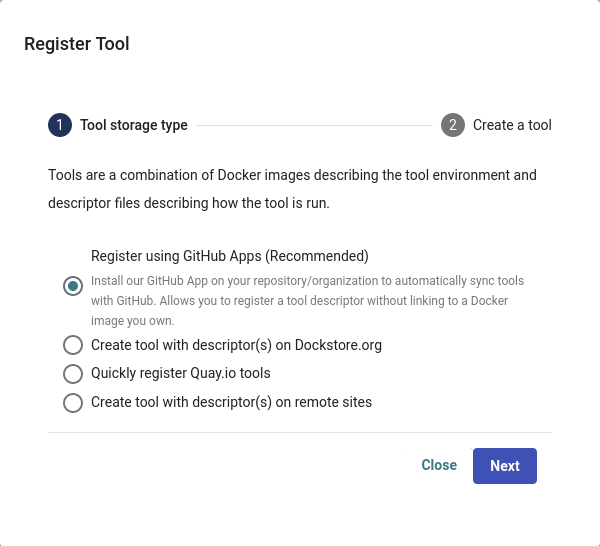
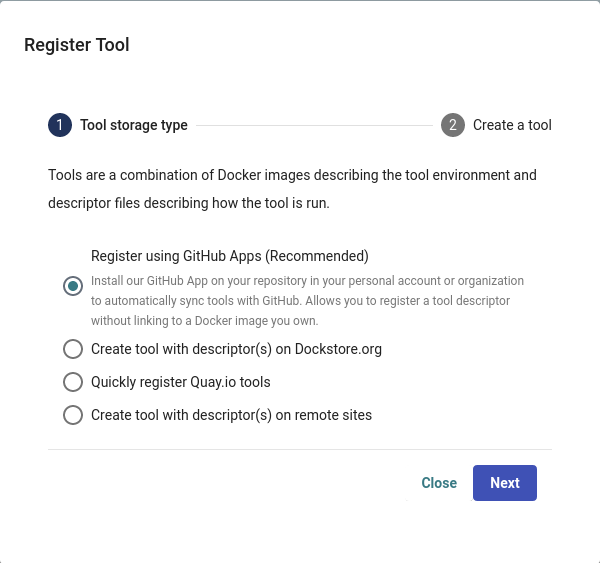
Clarify personal account vs organization

diff --git a/docs/getting-started/github-apps/github-apps-troubleshooting-tips.rst b/docs/getting-started/github-apps/github-apps-troubleshooting-tips.rst
@@ -13,7 +13,7 @@ GitHub App Troubleshooting & FAQs
 
 Why should I migrate my existing workflows to use GitHub Apps and a .dockstore.yml?
 ----------------------------------------------------------------------------------------
-Installing our Dockstore GitHub App onto your GitHub repository or organization will automatically sync your workflow/tool on Dockstore whenever code is pushed to GitHub.
+Installing our Dockstore GitHub App onto repositories in your GitHub personal account or organization will automatically sync your workflow/tool on Dockstore whenever code is pushed to GitHub.
 This means less manual work for workflow developers, and less waiting for content to update.
 
 This requires the addition of a .dockstore.yml file to your repository on GitHub.
@@ -37,15 +37,15 @@ You can use filters in a .dockstore.yml to avoid generating a corresponding work
 
 How do I check if the Dockstore GitHub App was installed on an individual repository?
 --------------------------------------------------------------------------------------
-Go to your repo on GitHub, click the Settings tab, click Integrations on the left and verify our app is installed and configured correctly
+Go to your repo on GitHub and click the Settings tab. On the left hand side under the Integrations section, click on GitHub Apps and verify our app is installed and configured correctly.
 
 .. image:: /assets/images/docs/github-repo-settings.png
 
-You may not have access to this page if you are not an administrator of your GitHub organization, :ref:`but you may still be able to see if it installed. <view github app permissions hack>` :ref:`(back to top) <topGHAFAQ>`
+If you're checking if the GitHub App was installed on a repository of an organization, you may not have access to this page if you are not an administrator of your GitHub organization, :ref:`but you may still be able to see if it installed. <view github app permissions hack>` :ref:`(back to top) <topGHAFAQ>`
 
 How do I configure the GitHub App across multiple repositories?
 ------------------------------------------------------------------
-GitHub Apps can be installed on either an a user level, or an organizational level. If you installed the app for your own repos that are not in an organization, you will be able to verify the Dockstore GitHub App is installed by clicking "Applications" in the left menu in your GitHub settings. Our app, along with any others you may have installed, will be there. Clicking the "configure" button will allow you to adjust which repos the app has access to. :ref:`(back to top) <topGHAFAQ>`
+GitHub Apps can be installed on either an a user level, or an organizational level. If you installed the app for your own repositories that are not in an organization, you will be able to verify the Dockstore GitHub App is installed by clicking "Applications" in the left menu in your GitHub settings. Our app, along with any others you may have installed, will be there. Clicking the "configure" button will allow you to adjust which repos the app has access to. :ref:`(back to top) <topGHAFAQ>`
 
 .. _view github app permissions hack:
 
@@ -91,8 +91,8 @@ The changes made to my GitHub repo aren't appearing on Dockstore, but I've alrea
 The general troubleshooting flow we recommend is the following:
 
 - Try waiting a couple of minutes and refreshing the browser on the My Workflows/My Tools page again. Sometimes, GitHub takes a few minutes to send Dockstore the changes made to a repository.
-- Verify that the GitHub app was given access to the right repository or organization. 
-- If access was given to the wrong organization or repository, or this is your first time installing the app, you'll need to push another commit after adding the correct repository to activate the sync to Dockstore.
+- Verify that the GitHub app was given access to the right repository in your personal account or organization. 
+- If access was given to the wrong repository or personal account/organization, or this is your first time installing the app, you'll may need to push another commit after adding the correct repository to activate the sync to Dockstore.
 - Double check the .dockstore.yml file.
 
     - Is it in the root directory?
@@ -113,10 +113,10 @@ Navigate to the ``/my-workflows`` (or ``/my-tools``) page.
 
 .. note:: If you're trying to view the GitHub App logs for a notebook, which doesn't have its own ``/my-notebooks`` page yet, navigate to ``/my-workflows`` then continue following the steps.
 
-Expand the GitHub Organization that the repository belongs to on the left hand side. Then click on the bottom where it says ``See GitHub App Logs``.
+Expand the GitHub account that the repository belongs to on the left hand side. Then click on the bottom where it says ``Apps Logs``.
 
 .. image:: /assets/images/docs/github-app-logs-button.png
-   :width: 40 %
+   :width: 30 %
 
 Once loaded, the following window will be displayed.
 

diff --git a/docs/getting-started/github-apps/snippet--installation.rst b/docs/getting-started/github-apps/snippet--installation.rst
@@ -2,35 +2,39 @@ Installing the GitHub App is simple. Navigate to ``/my-tools``, ``/my-workflows`
 
 .. note:: Since Dockstore Notebooks is still in preview mode, it does not have a dedicated ``/my-notebooks`` page yet. To register a notebook, navigate to ``/my-workflows`` in the step above. 
 
-.. image:: /assets/images/docs/my-dashboard-sidebar.png
+.. image:: /assets/images/docs/my-dashboard-sidebar.png  
+
+|
 
 Click the ``Register a Tool`` button on the left hand sidebar.
 
 .. image:: /assets/images/docs/add-tool-button.png
    :width: 30 %
 
+|
+
 A window will appear asking how you would like to register your tool, workflow, or service. Select ``Register using GitHub Apps``.
 
 .. image:: /assets/images/docs/register-tool-github-apps.png
    :width: 50 %
 
-Click ``+ Manage Dockstore Installations on GitHub``. You'll then be redirected to GitHub where you can select which repositories can be accessed by the GitHub app.
+Click ``+ Manage Dockstore Installations on GitHub``.
 
 .. image:: /assets/images/docs/manage-gh-app-installation.png
    :width: 50 %
 
-You'll then be redirected to GitHub where you can grant the app access to specific repositories within whatever organization you are installing into. Note that GitHub treats your username as its own "organization." For instance, my GitHub username is aofarrel. If I want to install the GitHub App so it could access aofarrel/mycoolrepo, I would choose the first option here.
+You'll then be redirected to GitHub where you can grant the app access to repositories within your personal account or organizations that you belong to. For example, the username for my personal GitHub account is aofarrel. If I want to install the GitHub App so it could access aofarrel/mycoolrepo, I would choose the first option here.
 
 .. figure:: /assets/images/docs/gh-app-install-where.png
    :width: 65 %
 
-   Install our GitHub App on either all current and future repositories in an organization or on specific repositories
+   Install our GitHub App on repositories in your personal account or organizations that you belong to
 
-After selection of an organization, you can select whether to give access to all current and future repositories or only select ones. If the organization you choose is intended to be just for Dockstore tools/workflows/services/notebooks, you may want to allow access to all repositories. Otherwise, it is may be more intuitive to select only certain repositories. Click save and you will be taken back to the page you started on in Dockstore -- either  ``/my-tools``, ``/my-workflows``, or ``/my-services``, depending where you started.
+After selection of a personal account or an organization, you can select whether to give access to all current and future repositories or only select ones. If the personal account or organization you choose is intended to be just for Dockstore tools/workflows/services/notebooks, you may want to allow access to all repositories. Otherwise, it is may be more intuitive to select only certain repositories. Click save and you will be taken back to the page you started on in Dockstore -- either  ``/my-tools``, ``/my-workflows``, or ``/my-services``, depending on where you started.
 
 .. important:: The GitHub user who first adds a workflow onto Dockstore must correspond to a user on Dockstore.
 
-You should now see the organization and the repositories you chose to keep track of in the "unpublished" tab. Here's an example involving ``/my-services``:
+On Dockstore, under the GITHUB section, you should see the names of GitHub accounts that you have access to, such as your personal account and organizations that you belong to. If your repositories that you chose to keep track of contained a .dockstore.yml at the time of installing the GitHub App, then you will see the repositories under the GitHub personal/organization account name that it belongs to. Here's an example involving ``/my-services``:
 
 .. figure:: /assets/images/docs/my-services-filled.png
 

diff --git a/docs/getting-started/github-apps/migrating-workflows-to-github-apps.rst b/docs/getting-started/github-apps/migrating-workflows-to-github-apps.rst
@@ -6,7 +6,7 @@ Dockstore 1.9.0 provides users with a way to keep their workflows automatically 
 GitHub App Installation
 -----------------------
 
-The first step to migrating a workflow is the same as adding a new workflow via GitHub Apps: install our Dockstore GitHub App onto your repository or
+The first step to migrating a workflow is the same as adding a new workflow via GitHub Apps: install our Dockstore GitHub App onto repositories in your personal account or
 organization, if you have not already done so.
 
 .. include:: /getting-started/github-apps/snippet--installation.rst
@@ -16,7 +16,7 @@ organization, if you have not already done so.
 Creating a .dockstore.yml File
 -------------------------------
 
-Once the GitHub app is installed on the correct repo, the next step is to create a .dockstore.yml file. We'll cover a very straightforward example
+Once the GitHub app is installed on the correct repository, the next step is to create a .dockstore.yml file. We'll cover a very straightforward example
 first, but depending on how you configured the workflow during registration and whether your GitHub repository houses multiple workflows published on Dockstore,
 there will be additional steps to writing your .dockstore.yml file.
 

diff --git a/docs/getting-started/github-apps/github-apps-landing-page.rst b/docs/getting-started/github-apps/github-apps-landing-page.rst
@@ -3,7 +3,7 @@ Dockstore GitHub App
 ======================================================
 
 GitHub apps are a GitHub feature used to improve the interaction between external applications and GitHub.
-Users can grant a GitHub app specific permissions on the repos and/or organizations of their choosing.
+Users can grant a GitHub app specific permissions on the repositories of personal and/or organization accounts of their choosing.
 
 The Dockstore GitHub App adds support for registering and automatically syncing your files between Dockstore and GitHub. It is our preferred method for registration, so you can find a breakdown of that process on the respective pages for :doc:`tool registration </getting-started/dockstore-tools>`, :doc:`workflow registration </getting-started/dockstore-workflows>`, :doc:`service registration </getting-started/getting-started-with-services>`, and :doc:`notebook registration </getting-started/getting-started-with-notebooks>`.
 

diff --git a/docs/getting-started/dockstore-tools.rst b/docs/getting-started/dockstore-tools.rst
@@ -36,7 +36,7 @@ keeping Dockstore synced with GitHub automatically. You can learn more :doc:`in 
 
 .. include:: /getting-started/github-apps/snippet--installation.rst
 
-Once GitHub app is installed on a repository or organization, you will need to add a .dockstore.yml file to
+Once GitHub app is installed on a repository in your personal account or organization, you will need to add a .dockstore.yml file to
 the root directory of a branch of the repository that contains your tool. This file contains information like
 tool path, test parameter file, tool name, etc. When a push is made or a tag is created on GitHub
 with a .dockstore.yml, Dockstore will add that branch to the corresponding tool on Dockstore. If the

diff --git a/docs/getting-started/dockstore-workflows.rst b/docs/getting-started/dockstore-workflows.rst
@@ -41,7 +41,7 @@ with GitHub automatically.
 
 .. include:: /getting-started/github-apps/snippet--installation.rst
 
-Once you've installed our GitHub app on a repository or organization, you'll need to add a dockstore.yml file to
+Once you've installed our GitHub app on a repository in your personal account or organization, you'll need to add a dockstore.yml file to
 the root directory of a branch of the repository that contains your workflow. This file contains information like
 workflow path, test parameter file, workflow name, etc. When a push is made on GitHub to a branch
 with a .dockstore.yml, Dockstore will add that branch to the corresponding workflow on Dockstore. If the
